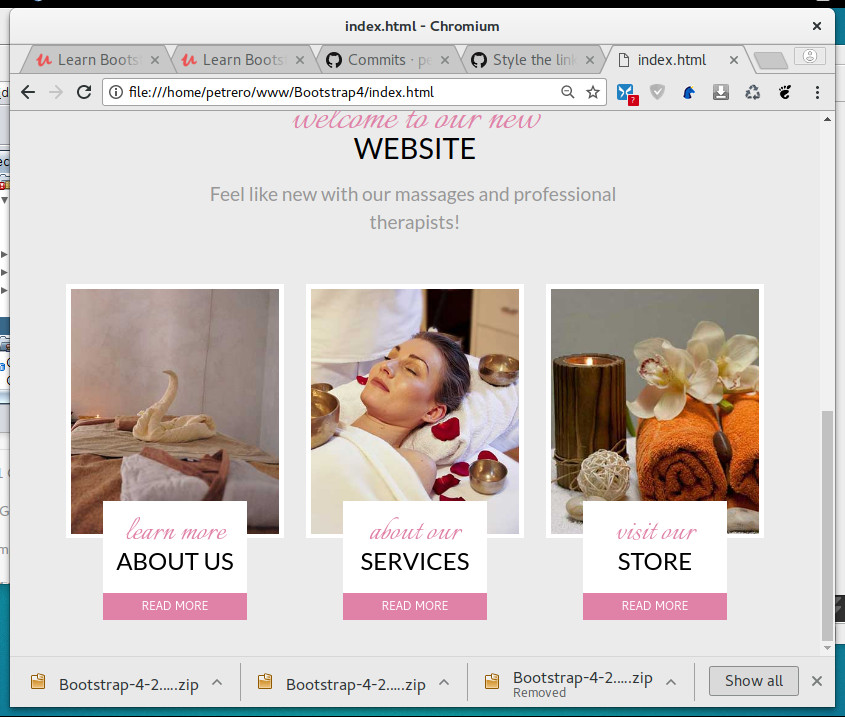
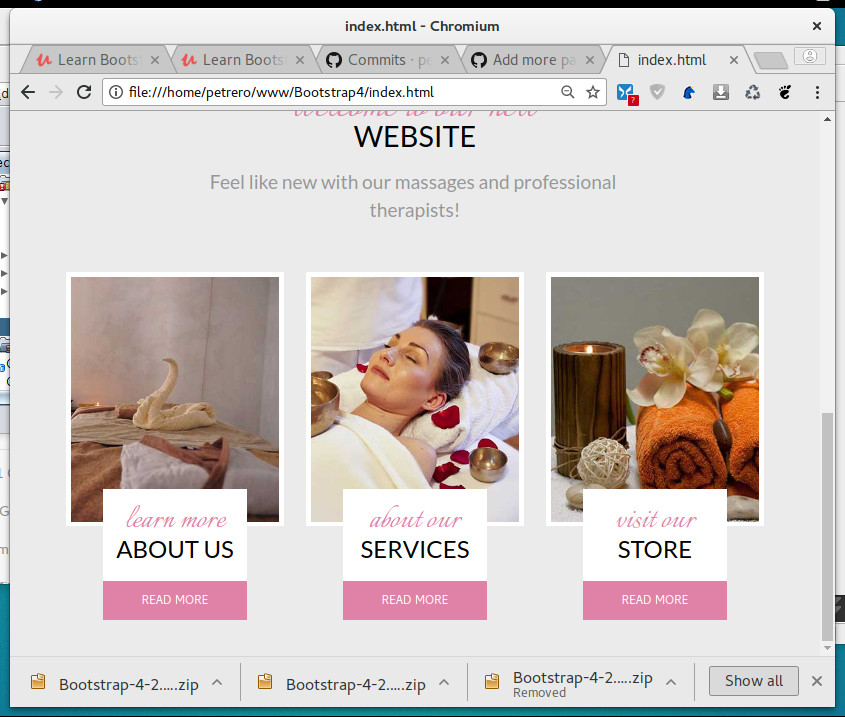
Add more padding to our link. As may be seen in small sized devices the page is not ok.

diff --git a/index.html b/index.html
@@ -118,7 +118,7 @@
             <div class="row no-gutters">
               <div class="col-8 offset-2 image-info pt-4">
                 <h3 class="text-center text-uppercase"><span class="text-lowercase">learn more</span>About Us</h3>
-                <a href="" class="btn btn-success text-uppercase btn-block mt-4">read more</a>
+                <a href="" class="btn btn-success text-uppercase btn-block mt-4 py-3">read more</a>
               </div>
             </div>  
           </div>
@@ -129,7 +129,7 @@
             <div class="row no-gutters">
               <div class="col-8 offset-2 image-info pt-4">
                 <h3 class="text-center text-uppercase"><span class="text-lowercase">about our</span>services</h3>
-                <a href="" class="btn btn-success text-uppercase btn-block mt-4">read more</a>
+                <a href="" class="btn btn-success text-uppercase btn-block mt-4 py-3">read more</a>
               </div>
             </div>  
           </div>
@@ -140,7 +140,7 @@
             <div class="row no-gutters">
               <div class="col-8 offset-2 image-info pt-4">
                 <h3 class="text-center text-uppercase"><span class="text-lowercase">visit our</span>store</h3>
-                <a href="" class="btn btn-success text-uppercase btn-block mt-4">read more</a>
+                <a href="" class="btn btn-success text-uppercase btn-block mt-4 py-3">read more</a>
               </div>
             </div>  
           </div>
